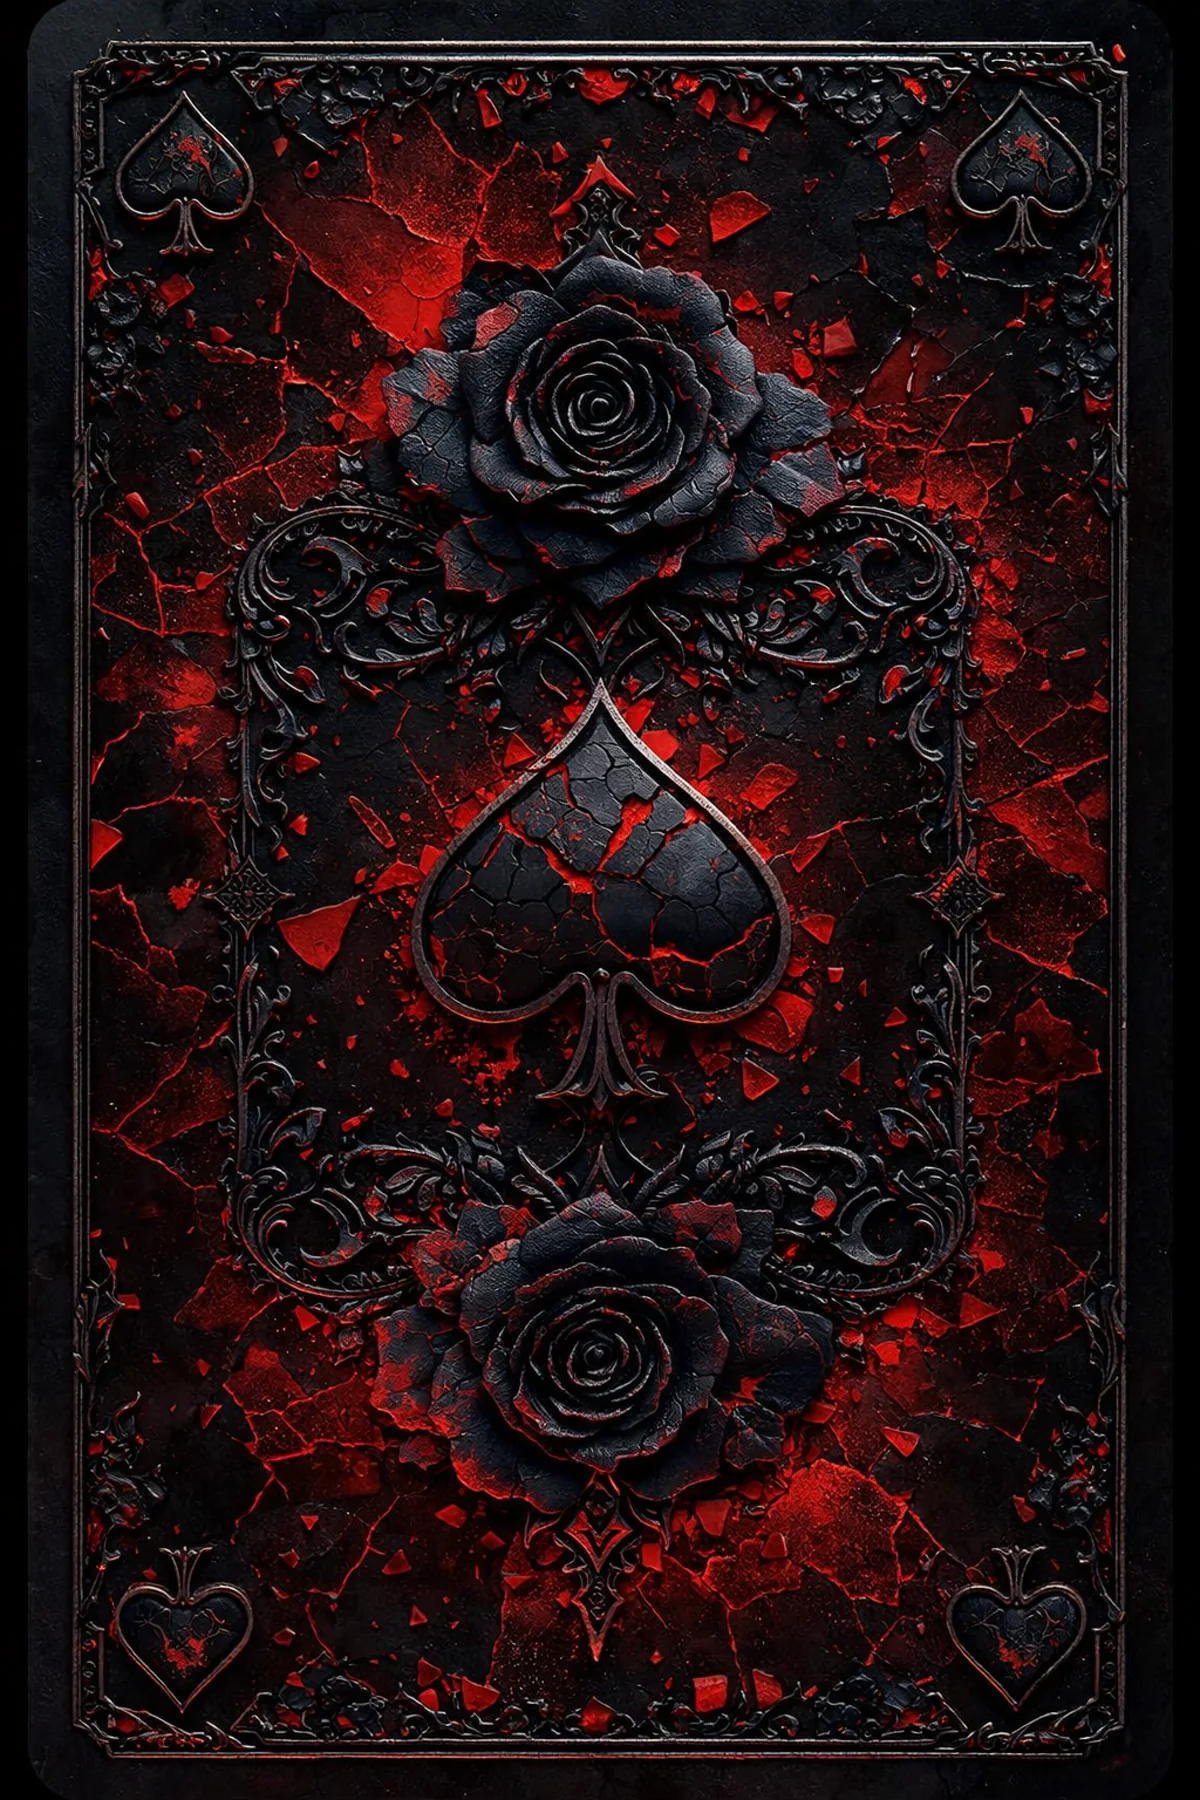
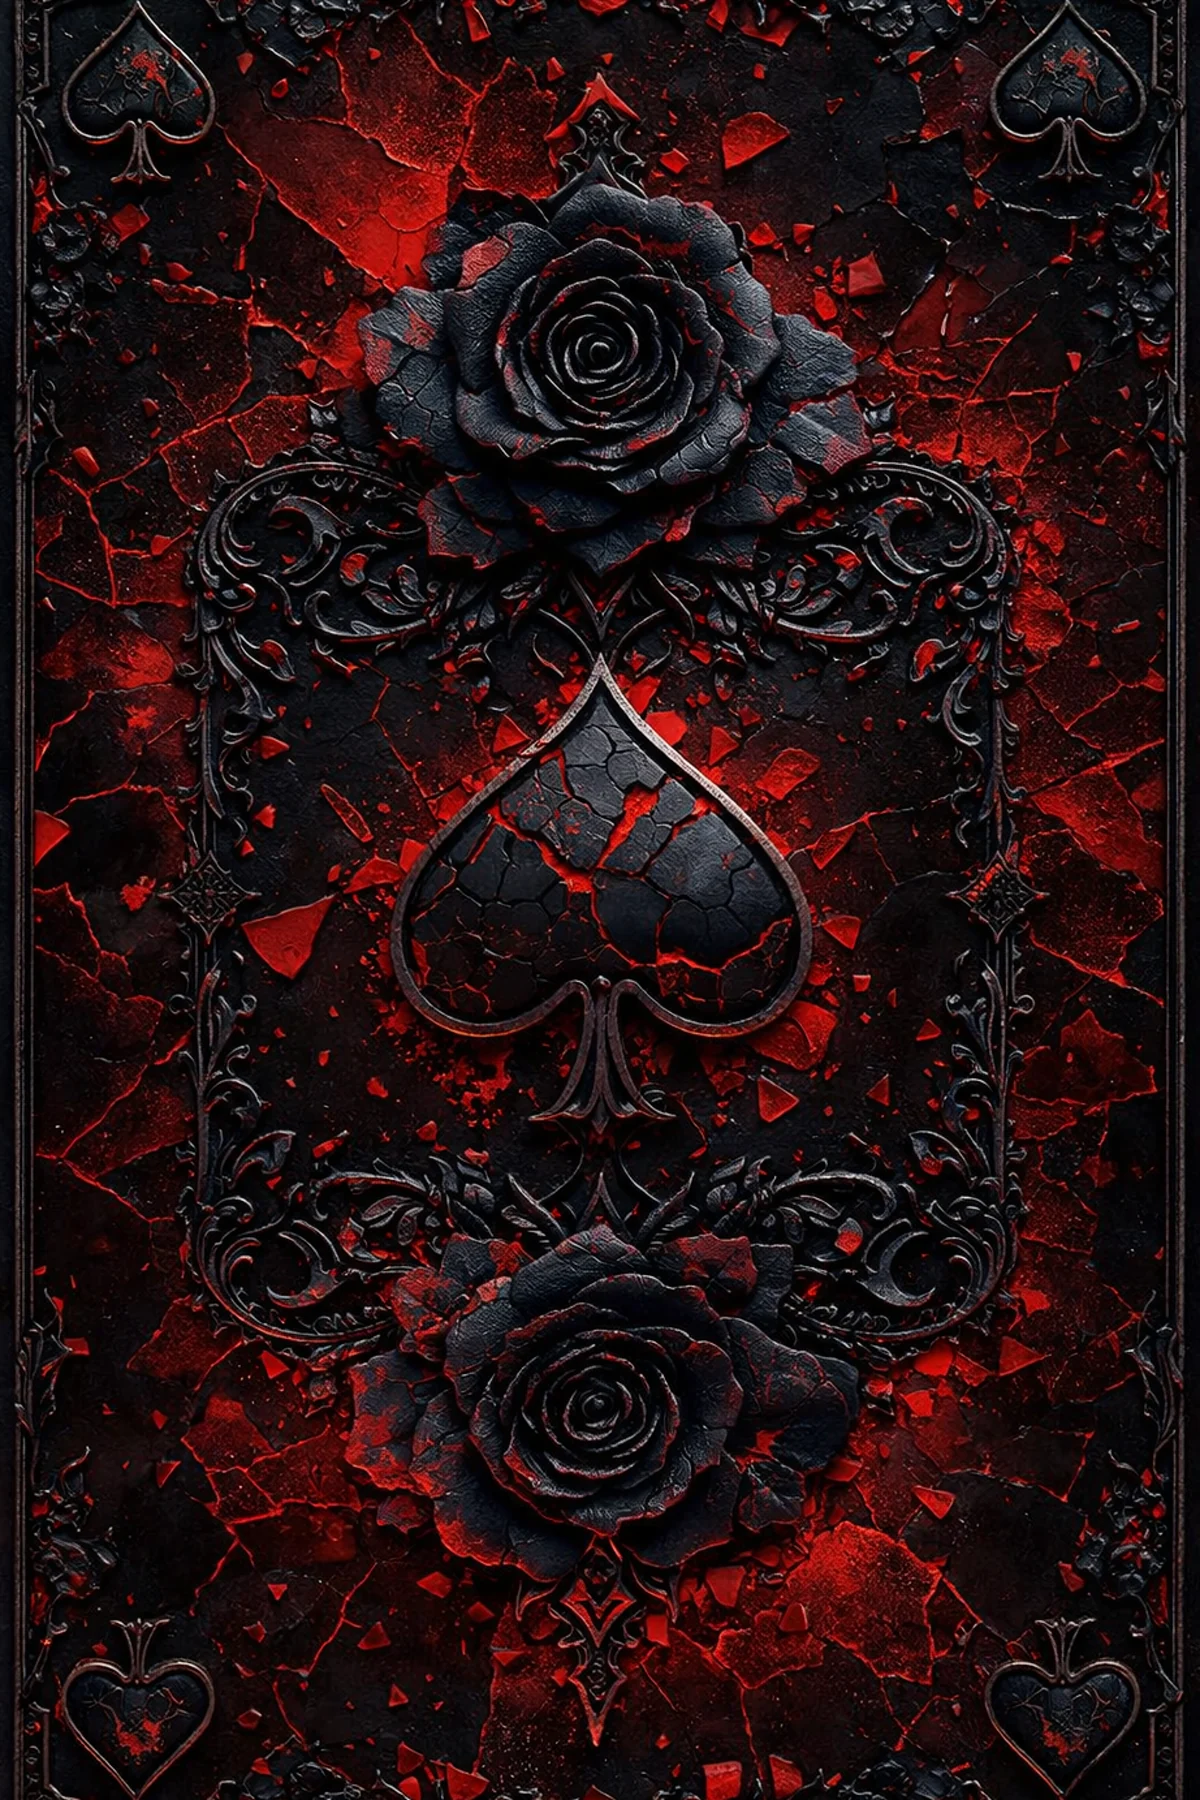
Trim back art; add floating Signal9 Oracle masthead
- Re-crop the card back (~5% off each edge) so the design fills the
  face instead of sitting inside a black margin.
- Add a Signal9 Oracle title across the top: letter-spaced serif with a
  faint glow, gently floating. The 9 is ember orange with its own glow.
  Title float stops under reduced motion.
- Bump cache to qfo-v7.

diff --git a/index.html b/index.html
@@ -49,6 +49,36 @@
     perspective-origin: 50% 42%;
   }
 
+  /* Masthead — floats at the top with a faint glow behind it. */
+  .title {
+    position: absolute;
+    top: max(20px, env(safe-area-inset-top));
+    left: 0;
+    right: 0;
+    margin: 0;
+    text-align: center;
+    font-family: var(--serif);
+    font-weight: 500;
+    font-size: clamp(16px, 4.6vw, 22px);
+    letter-spacing: 0.2em;
+    text-transform: uppercase;
+    color: #d7d2c7;
+    text-shadow: 0 0 22px rgba(231, 228, 221, 0.28);
+    pointer-events: none;
+    animation: titleFloat 7s ease-in-out infinite;
+  }
+  .title .nine {
+    color: #c8842f;
+    text-shadow:
+      0 0 10px rgba(200, 132, 47, 0.85),
+      0 0 26px rgba(200, 132, 47, 0.5);
+  }
+
+  @keyframes titleFloat {
+    0%, 100% { transform: translateY(0); }
+    50%      { transform: translateY(-5px); }
+  }
+
   /* The card — one print on a wall. 2:3 portrait. Also the 3D flip scene. */
   .card {
     position: relative;
@@ -224,6 +254,7 @@
   }
 
   @media (prefers-reduced-motion: reduce) {
+    .title { animation: none; }
     .card { animation: none; transform: none; }       /* glow stays, drift stops */
     .is-flipping .card__inner,
     .is-intro .card__inner { animation: none; }       /* no flip */
@@ -234,6 +265,8 @@
 </style>
 </head>
 <body>
+  <h1 class="title">Signal<span class="nine">9</span> Oracle</h1>
+
   <button class="card" id="card" type="button" aria-label="Draw a card">
     <div class="card__inner" id="inner">
       <div class="card__face card__face--front" id="front">

diff --git a/sw.js b/sw.js
@@ -1,6 +1,6 @@
 // Oracle of the Quiet Fracture — service worker.
 // Bump CACHE_VERSION on every deploy so updates don't get stuck behind a stale cache.
-const CACHE_VERSION = "qfo-v6";
+const CACHE_VERSION = "qfo-v7";
 
 const FAMILY_KEYS = ["contained", "torn", "mourning", "withered", "fractured"];
 const IMAGE_URLS = [];